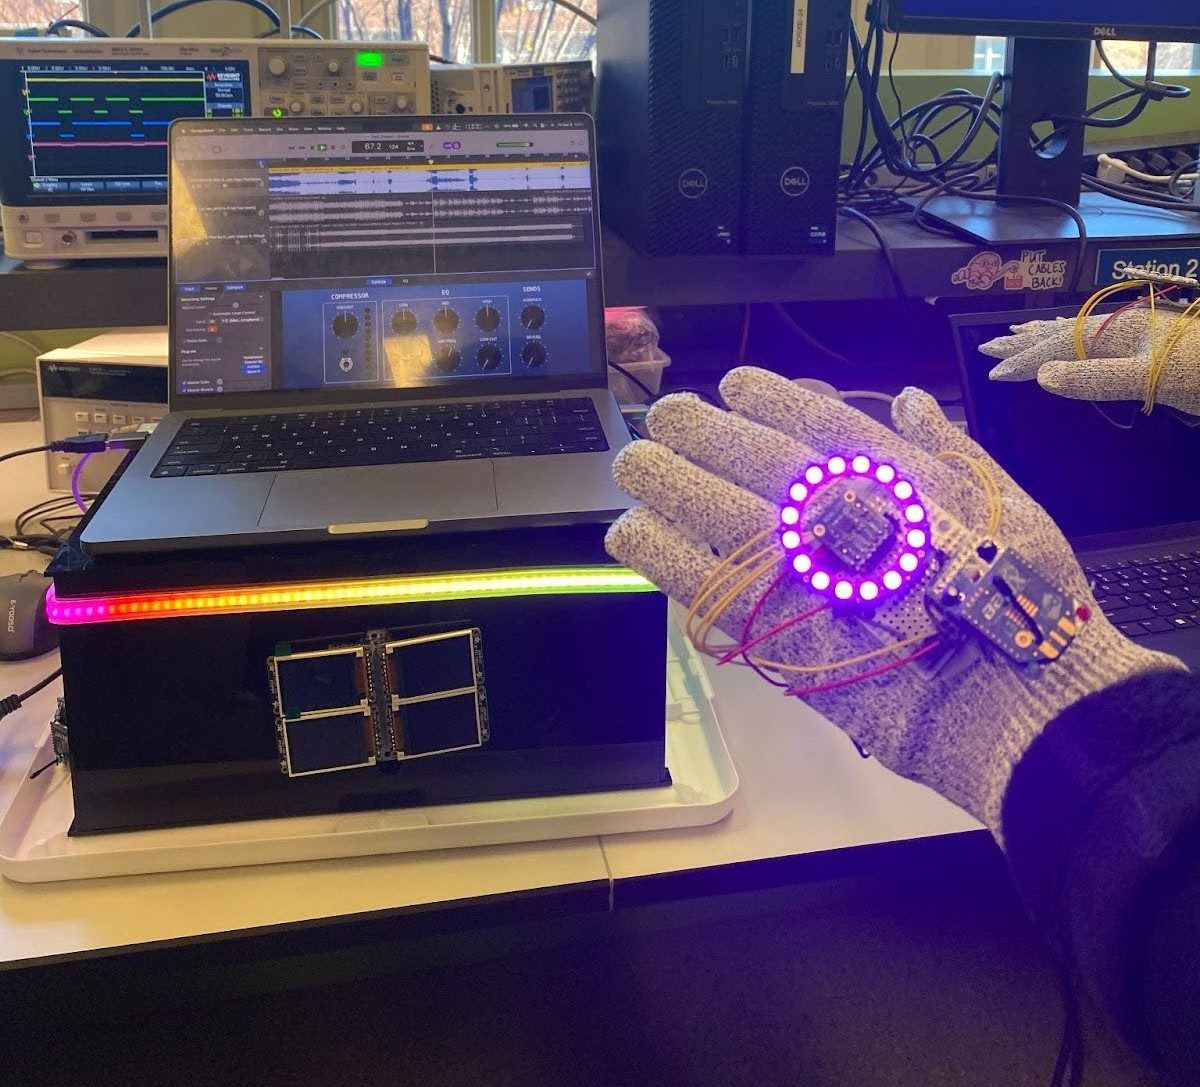
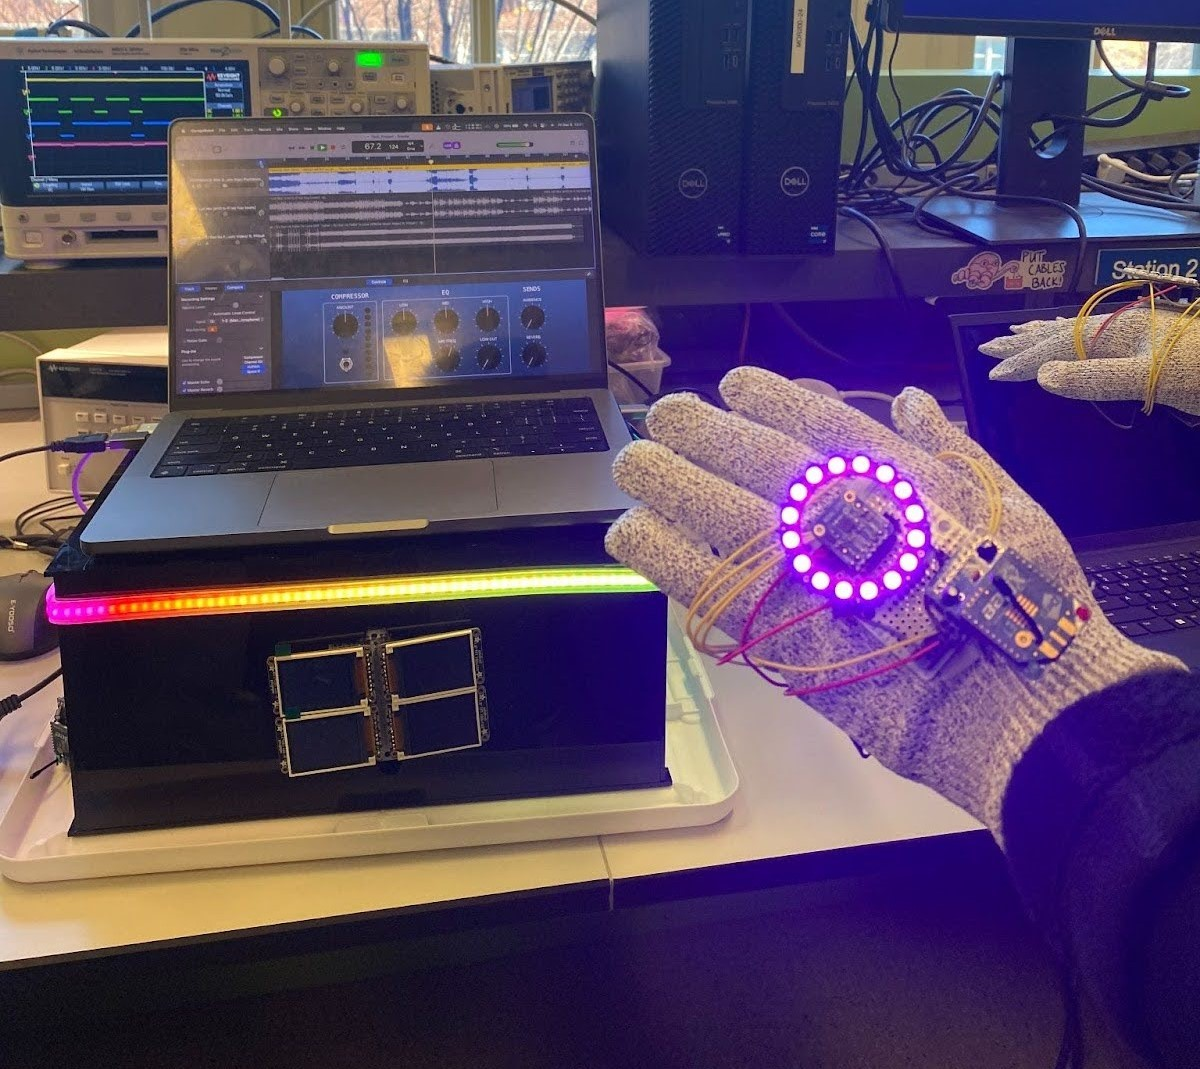
cropped images

diff --git a/README.md b/README.md
@@ -37,6 +37,6 @@ Developed a handheld diagnostic device for the detection of HIV-1 P24 Biomarkers
 
 Developed an IoT wireless IMU gloves connected to a DJ soundboard to recognize 6-axis gesture control to control volume, tempo, and pan of output speaker. Programmed using bare-meal embedded C and implemented SPI communciation, GPIO, and timers/interupts. Designed and lazar cut physical enclosure using Solid Works. Wireless communication of data was done using Zigbee protocol. 
 
-![DJ Gloves](/assets/Dj_Gloves.jpg)
+![DJ Gloves](/assets/DJ_Gloves.jpg)
 
 
